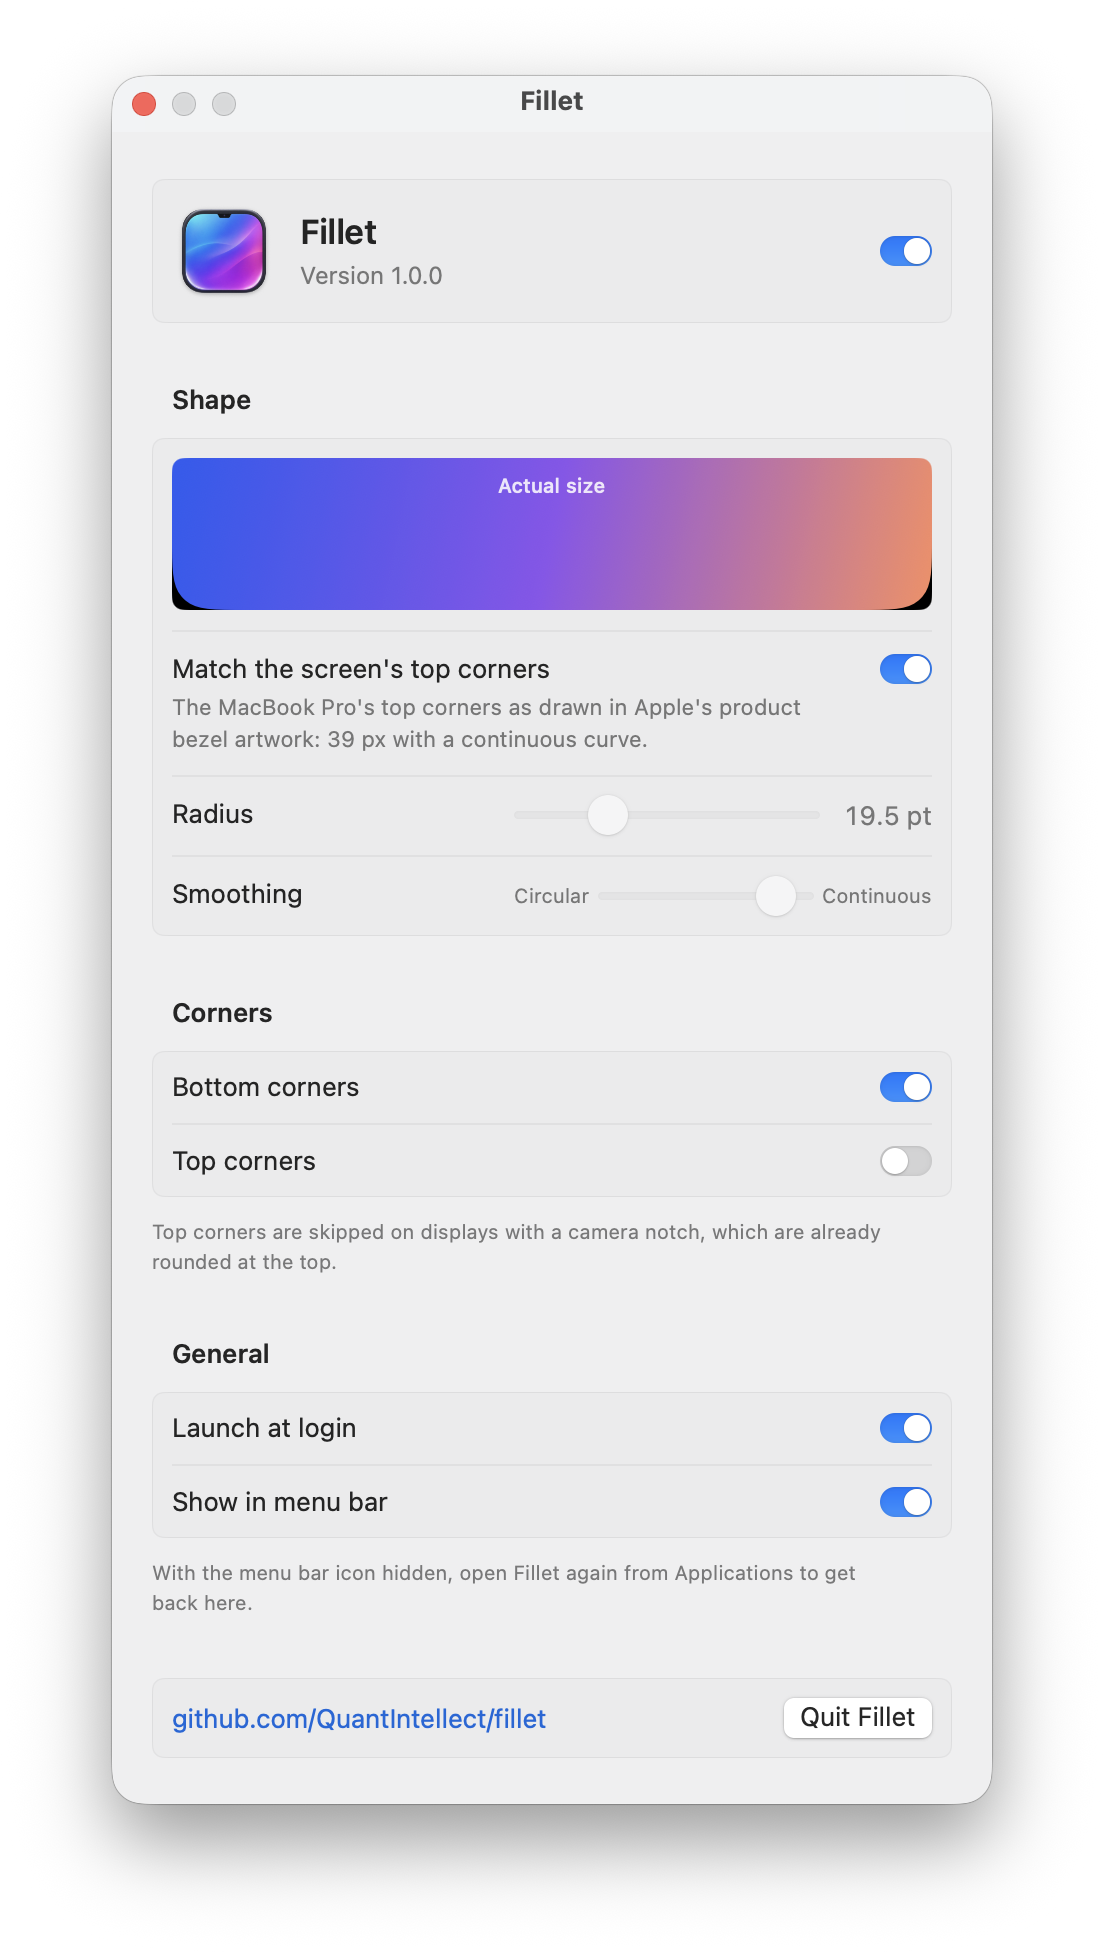
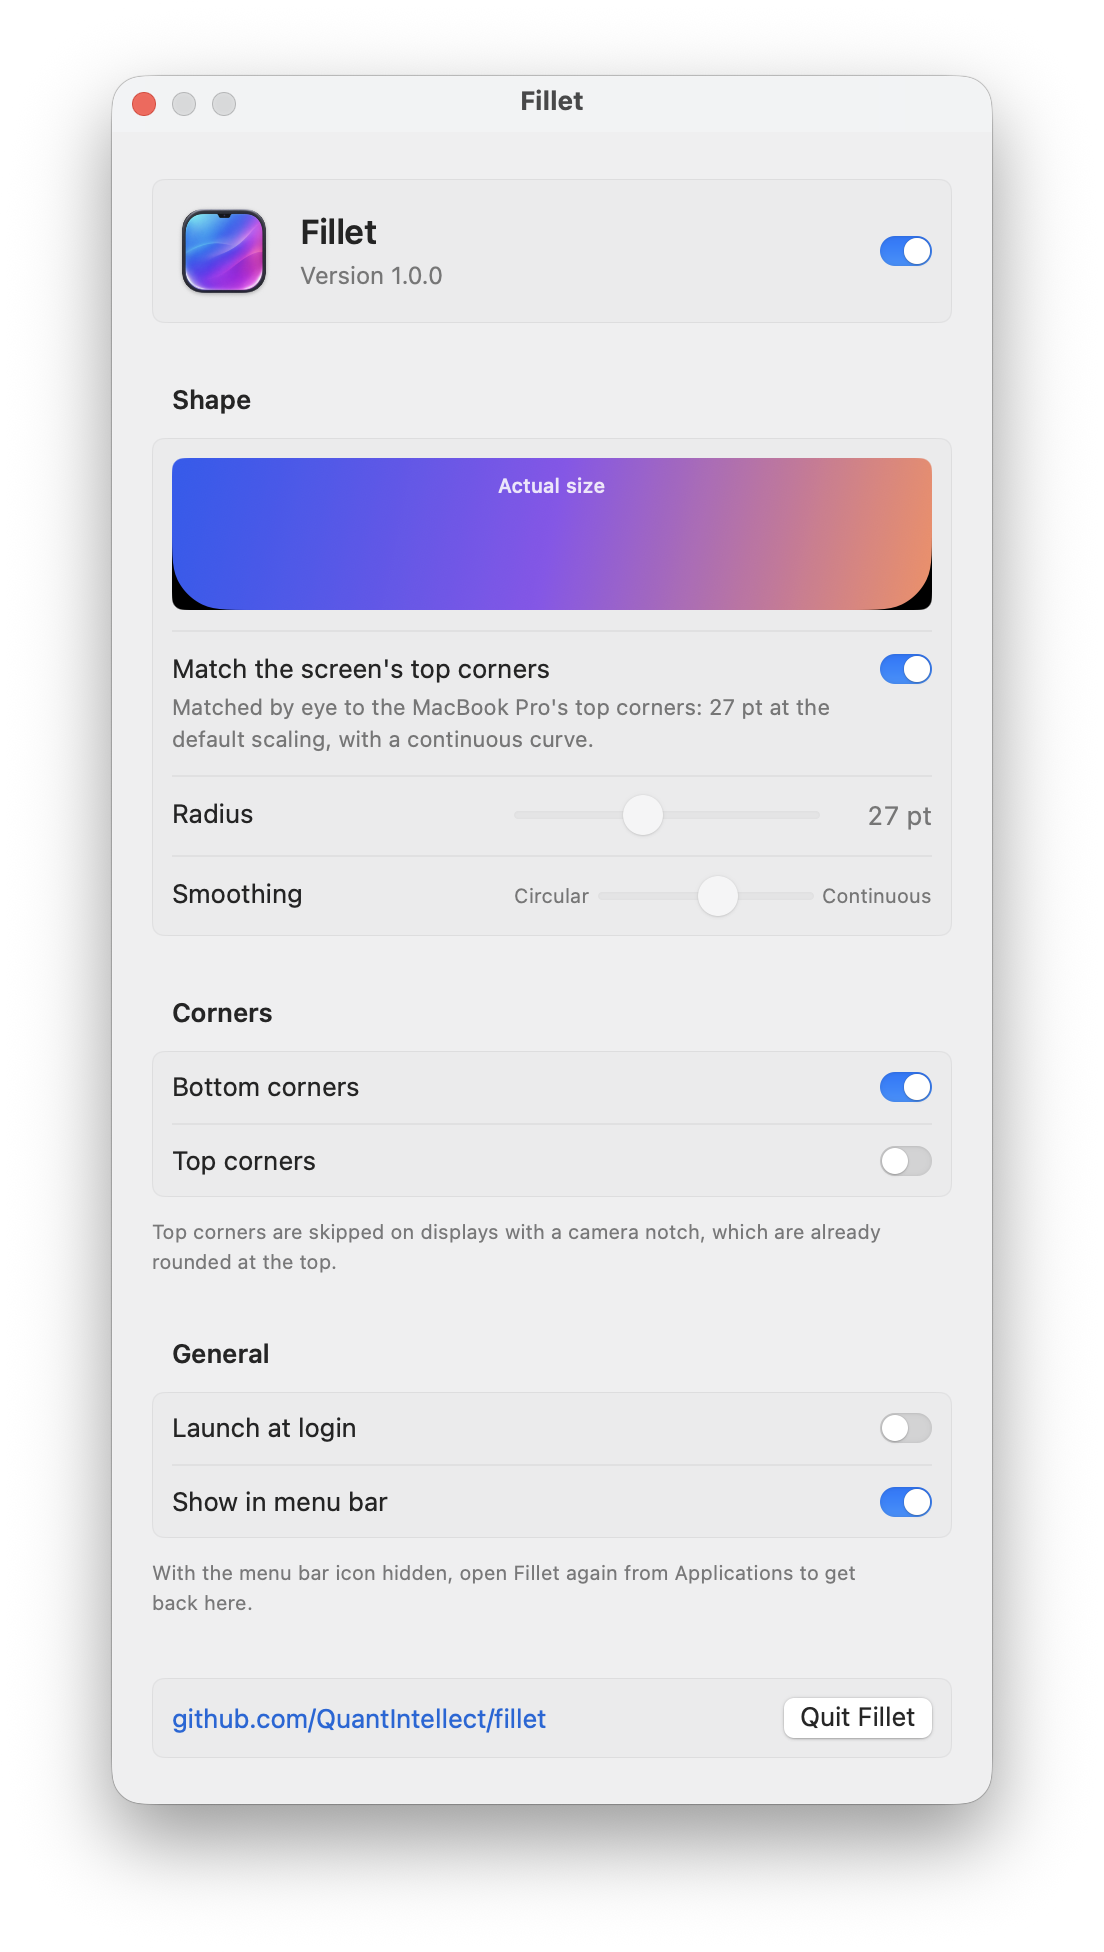
Default to the eye-matched top-corner shape (27 pt, smoothing 0.57)
Compared on a real 16-inch MacBook Pro, Apple's bezel artwork (39 px,
smoothing 0.9) draws the top corners smaller than they look on the screen.
"Match the screen's top corners" now uses 54 native px with smoothing 0.57
(27 pt at the default scaling). External displays get 27 pt instead of a
pixel conversion. The README keeps the bezel measurements for reference,
describes the staged screenshots accurately, and notes that the bezel
images aren't covered by the MIT license.

Claude-Session: https://claude.ai/code/session_0119pSNpNQUvkr9MQNqwrqBa

diff --git a/Sources/Fillet/Preferences.swift b/Sources/Fillet/Preferences.swift
@@ -19,8 +19,8 @@ enum Pref {
         UserDefaults.standard.register(defaults: [
             enabled: true,
             matchTopCorners: true,
-            radius: 20.0,
-            smoothing: 0.9,
+            radius: 27.0,
+            smoothing: 0.57,
             bottomCorners: true,
             topCorners: false,
             showMenuBarIcon: true,
@@ -28,15 +28,15 @@ enum Pref {
     }
 }
 
-/// The MacBook Pro's rounded top screen corners as drawn in the screen cut-out of Apple's MacBook Pro
-/// product bezel artwork (Apple Design Resources): 16-inch 39 px radius / 0.9 smoothing, 14-inch 38.5 px / 0.8,
-/// in native panel pixels.
+/// The MacBook Pro's rounded top screen corners, matched by eye on a 16-inch MacBook Pro: 27 pt at the default
+/// scaling (54 native pixels) with smoothing 0.57. For reference, the screen cut-out in Apple's MacBook Pro product
+/// bezel artwork draws them smaller: 39 px / 0.9 smoothing on the 16-inch, 38.5 px / 0.8 on the 14-inch.
 enum TopCorners {
-    static let radiusInPixels: CGFloat = 39
-    static let smoothing: CGFloat = 0.9
+    static let radiusInPixels: CGFloat = 54
+    static let smoothing: CGFloat = 0.57
 
     /// The radius in points at a MacBook Pro's default scaling (2 native pixels per point).
-    static let defaultRadiusInPoints: CGFloat = 19.5
+    static let defaultRadiusInPoints: CGFloat = 27
 
     /// The matching radius in points for a screen. On the built-in display it follows the scaling
     /// ("Looks like …") so the curve keeps its physical size; other displays get the default size in points.

diff --git a/scripts/make-images.swift b/scripts/make-images.swift
@@ -26,16 +26,14 @@ struct MakeImages {
         let hero = compose(bezel: bezel, screen: after, cut: cut, overlay: settings)
         try save(scaled(hero, width: 2000), "docs/images/hero.png")
 
-        // Close-ups: bottom-left corner before / after, and the hardware top-left corner for comparison.
+        // Close-ups: the bottom-left corner before and after.
         let plainBefore = compose(bezel: bezel, screen: before, cut: cut, overlay: nil)
         let plainAfter = compose(bezel: bezel, screen: after, cut: cut, overlay: nil)
         let size = 420, pad = 90
         let bottomLeft = CGRect(x: Int(cut.minX) - pad, y: Int(cut.maxY) - size + pad, width: size, height: size)
-        let topLeft = CGRect(x: Int(cut.minX) - pad, y: Int(cut.minY) - pad, width: size, height: size)
         let panels: [(CGImage, String, String)] = [
             (plainBefore.cropping(to: bottomLeft)!, "Before", "Square bottom corner"),
             (plainAfter.cropping(to: bottomLeft)!, "With Fillet", "Rounded bottom corner"),
-            (plainAfter.cropping(to: topLeft)!, "Top corner", "As drawn in Apple's bezel"),
         ]
         try save(closeups(panels), "docs/images/corners.png")
         print("wrote docs/images/hero.png and docs/images/corners.png")

diff --git a/Sources/Fillet/SettingsView.swift b/Sources/Fillet/SettingsView.swift
@@ -22,8 +22,8 @@ final class LoginItem: ObservableObject {
 struct SettingsView: View {
     @AppStorage(Pref.enabled) private var enabled = true
     @AppStorage(Pref.matchTopCorners) private var matchTopCorners = true
-    @AppStorage(Pref.radius) private var radius = 20.0
-    @AppStorage(Pref.smoothing) private var smoothing = 0.9
+    @AppStorage(Pref.radius) private var radius = 27.0
+    @AppStorage(Pref.smoothing) private var smoothing = 0.57
     @AppStorage(Pref.bottomCorners) private var bottomCorners = true
     @AppStorage(Pref.topCorners) private var topCorners = false
     @AppStorage(Pref.showMenuBarIcon) private var showMenuBarIcon = true
@@ -63,7 +63,7 @@ struct SettingsView: View {
                     .clipShape(RoundedRectangle(cornerRadius: 6, style: .continuous))
                 Toggle(isOn: $matchTopCorners) {
                     Text("Match the screen's top corners")
-                    Text("The MacBook Pro's top corners as drawn in Apple's product bezel artwork: 39 px with a continuous curve.")
+                    Text("Matched by eye to the MacBook Pro's top corners: 27 pt at the default scaling, with a continuous curve.")
                 }
                 LabeledContent("Radius") {
                     HStack {

diff --git a/README.md b/README.md
@@ -20,19 +20,19 @@
   <img src="docs/images/hero.png" alt="Fillet running on a 16-inch MacBook Pro: the bottom corners of the screen are rounded like the top ones" width="900">
 </p>
 
-A MacBook Pro screen is rounded at the top and square at the bottom. Fillet rounds the bottom two corners with
-the same curve as the top ones, as measured from Apple's MacBook Pro product bezel artwork, so the whole screen
-reads as one shape, much like the new MacBook Pro with the PROLED XDR display.
+A MacBook Pro screen is rounded at the top and square at the bottom. Fillet rounds the bottom two corners to
+match the top ones, so the whole screen reads as one shape, much like the new MacBook Pro with the PROLED XDR
+display.
 
 <p align="center">
-  <img src="docs/images/corners.png" alt="The bottom-left corner of the screen before and after Fillet, next to the top-left corner as drawn in Apple's bezel" width="820">
+  <img src="docs/images/corners.png" alt="The bottom-left corner of the screen before and after Fillet" width="560">
 </p>
 
 ## Features
 
-- **Matches your screen.** By default the bottom corners copy the MacBook Pro's top corners: a 39-pixel
-  radius with Apple's continuous ("squircle") curve, adjusted for the built-in display's scaling (other displays
-  get the same 19.5 pt).
+- **Matches your screen.** By default the bottom corners copy the MacBook Pro's top corners: 27 pt at the
+  default scaling with a continuous ("squircle") curve, matched by eye on a 16-inch MacBook Pro. On the
+  built-in display the curve keeps its physical size if you change the scaling; other displays get 27 pt.
 - **No blinking.** The corners live in their own layer above every Space, so they stay put while you swipe
   between desktops and while apps enter or leave full screen.
 - **Works in full screen**, for videos, presentations and anything else in a full-screen app.
@@ -95,16 +95,17 @@ defaults write com.quantintellect.fillet showMenuBarIcon -bool false
   This uses private calls (`CGSSpaceCreate`, `CGSSpaceSetAbsoluteLevel`).
 - **The curve** follows Figma's corner-smoothing construction: a Bézier curve into a circular arc and out
   again.
-- **The default shape** comes from measuring the screen cut-out in Apple's MacBook Pro product bezel
-  artwork (Apple Design Resources):
+- **The default shape** was matched by eye against the real top corners of a 16-inch MacBook Pro: 54 native
+  pixels (27 pt at the default scaling) with smoothing 0.57. Apple's MacBook Pro product bezel artwork
+  (Apple Design Resources) draws the corners a little smaller. Its screen cut-outs measure:
 
-  | Display | Radius | Smoothing |
+  | Bezel artwork | Radius | Smoothing |
   | --- | --- | --- |
   | MacBook Pro 16-inch, top corners | 39 px | 0.9 |
   | MacBook Pro 14-inch, top corners | 38.5 px | 0.8 |
   | MacBook Pro with PROLED XDR display, all four corners | about 61.5 px | about 0.65 |
 
-  At the default scaling, 39 px is 19.5 pt.
+  If your eyes disagree, turn off matching and set your own radius and smoothing.
 
 ## Good to know
 
